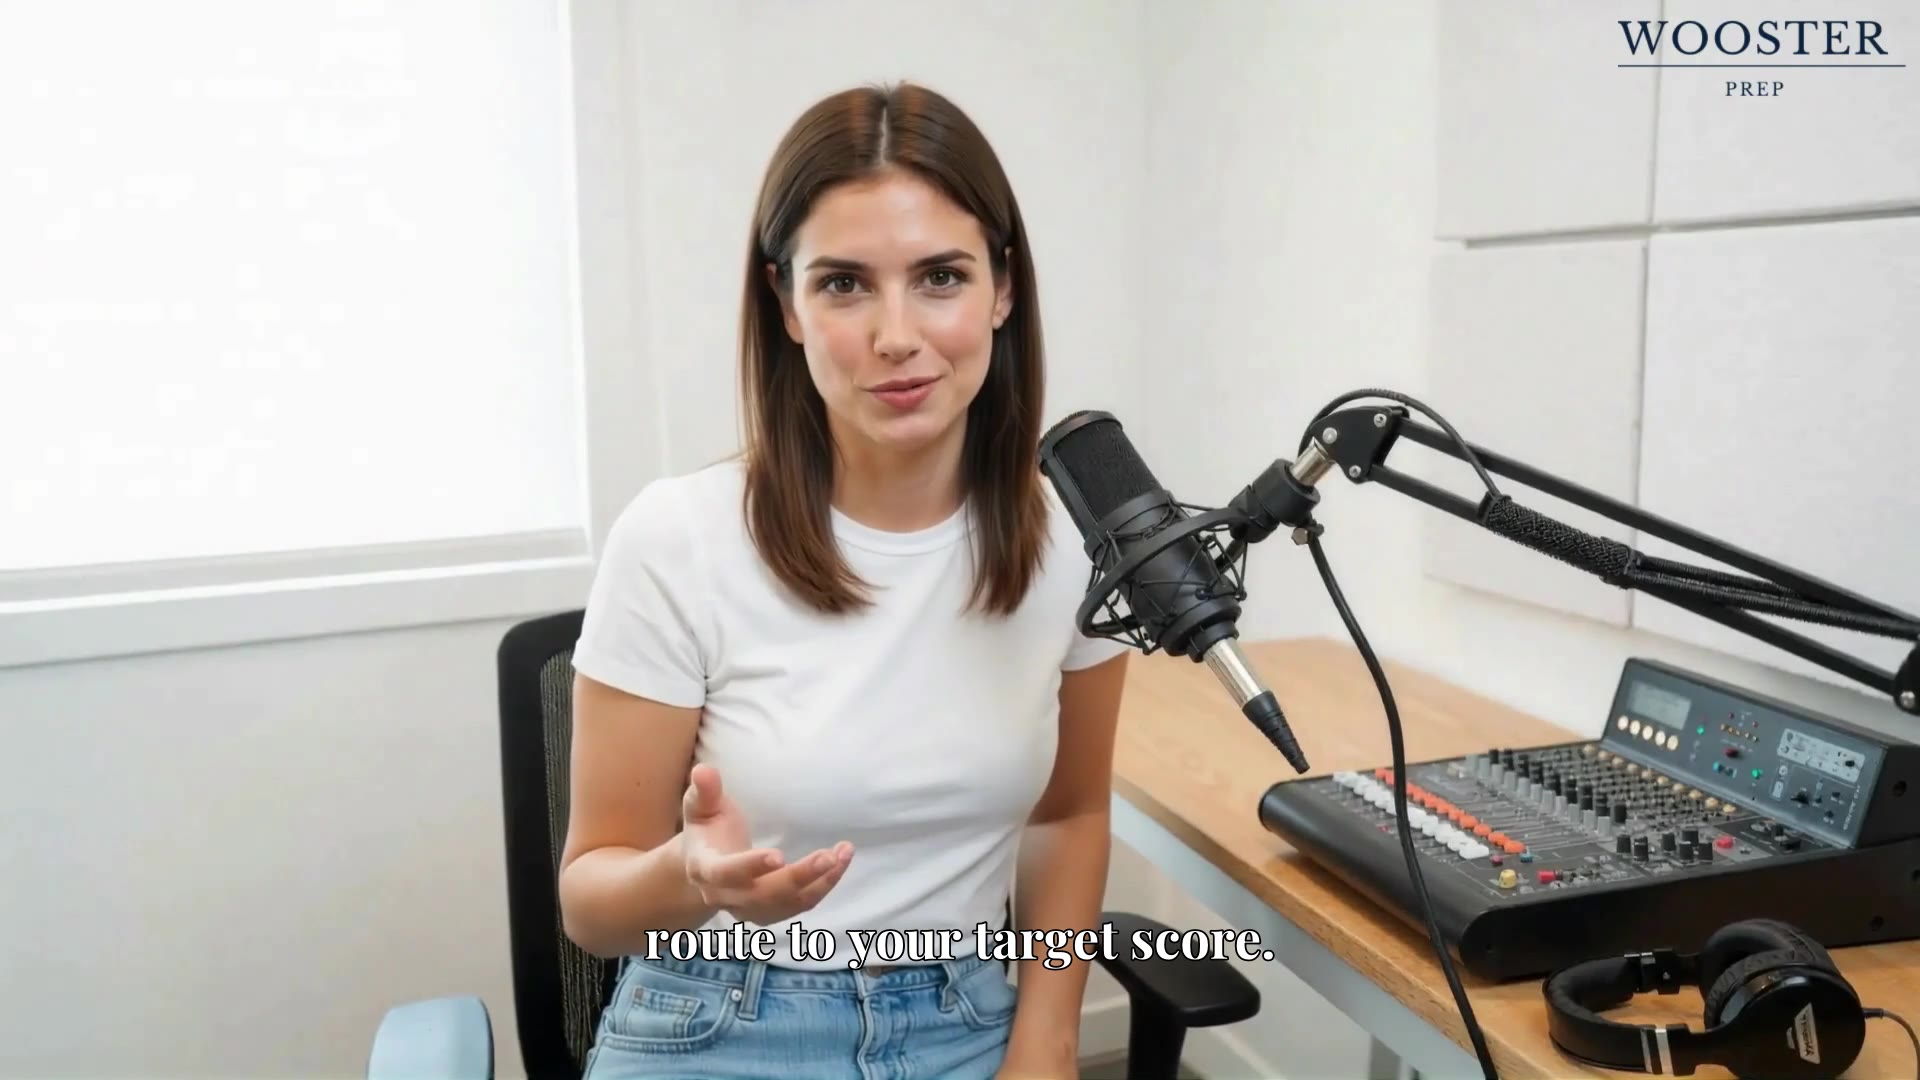
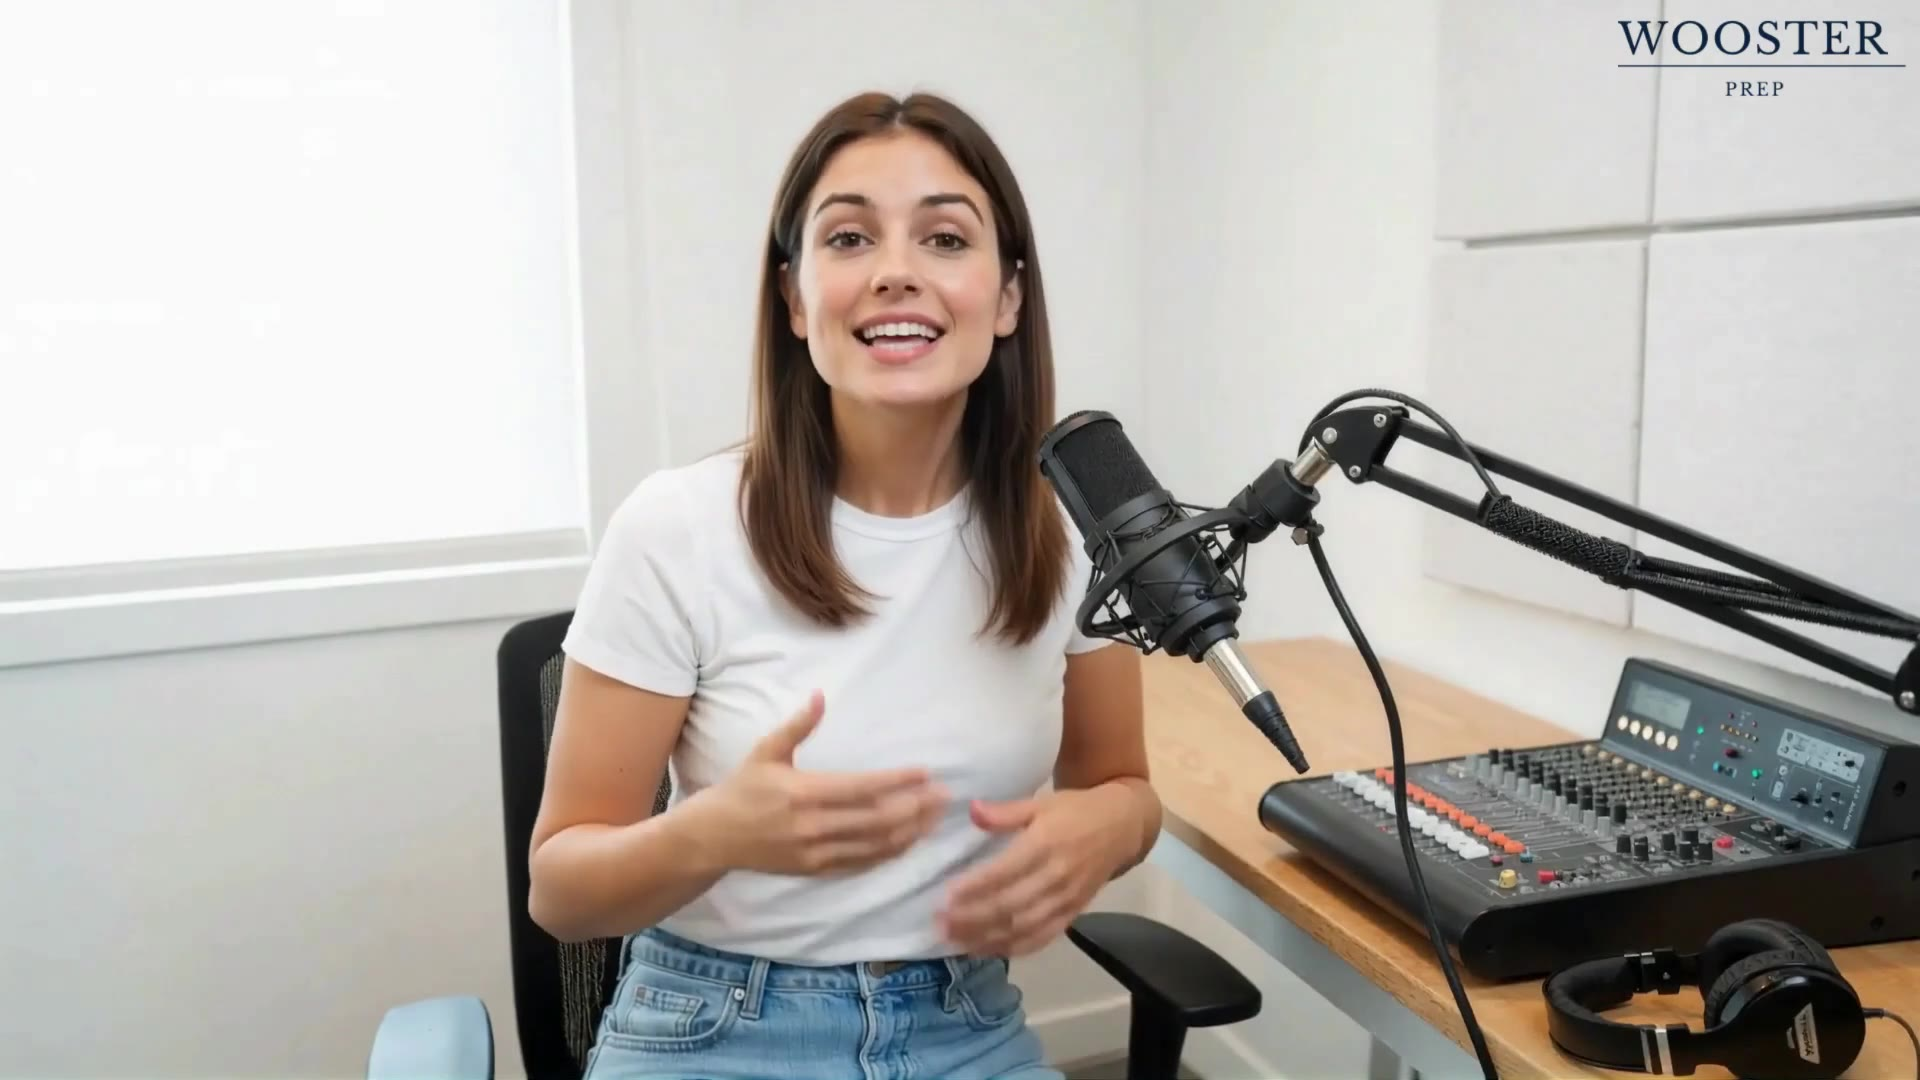
Video: caption-free poster frame
Claude-Session: https://claude.ai/code/session_01X7s1tz8Mpnk1AihKkkyt3a

Changed region(s): [[0.25, 0.0611, 0.6562, 1.0], [0.6875, 0.8861, 0.75, 0.9472]]

diff --git a/BUILD_TRACKER.md b/BUILD_TRACKER.md
@@ -36,7 +36,7 @@ Progress: 5 / 13 steps done (P partly, 05 awaiting sign-off).
 - [x] Copy `copy.md` to `content/copy.md`
 - [ ] Add 1 to 2 reference screenshots to `/design/reference/` (live logo JPEG and live OG image saved there for reference)
 - [x] Product screenshots in `/public/screens/`: roi-plan.png = Concept Library (1138x932), progress.png = Stats dashboard (1028x922), diagnostic.png = Practice Exams page (1120x875, closest available; a real diagnostic question screen would be better). Originals in `design/reference/app/`
-- [~] Video: founder supplied `public/video/moneyball.mp4` (76MB, 1920x1080, 4m24s, captions burned in). Git-ignored. Poster cut at 9s with ffmpeg (imageio-ffmpeg) to `public/video/poster.jpg`. `moneyball.vtt` is a placeholder. `NEXT_PUBLIC_VIDEO_URL=/video/moneyball.mp4` in `.env.local` for dev only
+- [~] Video: founder supplied `public/video/moneyball.mp4` (76MB, 1920x1080, 4m24s, captions burned in). Git-ignored. Poster cut at 3.5s (caption-free frame) with ffmpeg (imageio-ffmpeg) to `public/video/poster.jpg`. `moneyball.vtt` is a placeholder. `NEXT_PUBLIC_VIDEO_URL=/video/moneyball.mp4` in `.env.local` for dev only
 - [!] Install Frontend Design plugin, Playwright MCP, shadcn MCP (Playwright does not run here; user checks visually by hand)
 - [x] `git init` and first commit
 
@@ -178,7 +178,7 @@ Progress: 5 / 13 steps done (P partly, 05 awaiting sign-off).
 | 2026-09-10 | 03 | ROI comparison built with content/roi.ts, RoiComparison, RoiRerank. Mounted after hero. Layout verified, motion pending a visible tab. |
 | 2026-09-10 | 02 | User asked for a visible right edge on the hero image. Bleed removed, shadow token deepened (0 24px 64px -8px rgba(2,6,16,0.7)). |
 | 2026-09-10 | 01 | Header: translucent blur on scroll, smaller CTA, and palette that follows the section beneath (ink or paper). Sections tagged with data-section-theme. |
-| 2026-09-10 | 05 | Video section built with the founder-supplied mp4 served from public/video in dev, poster cut at 9s, placeholder vtt. Verified click-to-play wiring in Chrome. |
+| 2026-09-10 | 05 | Video section built with the founder-supplied mp4 served from public/video in dev, poster cut at 3.5s, placeholder vtt. Verified click-to-play wiring in Chrome. |
 | 2026-09-10 | 04 | How it works built and mounted. Bento cells top-aligned after a first pass showed bottom-anchored images. |
 | 2026-09-10 | 01 | Header theme change made smooth: logos crossfade, colours transition over 720ms. Found and fixed that no duration class had been applying anywhere (Tailwind v4). |
 | 2026-09-10 | 02 | User then asked for the bleed back with a soft fade. Bleed restored, ink gradient fade added on the right of the hero. |
